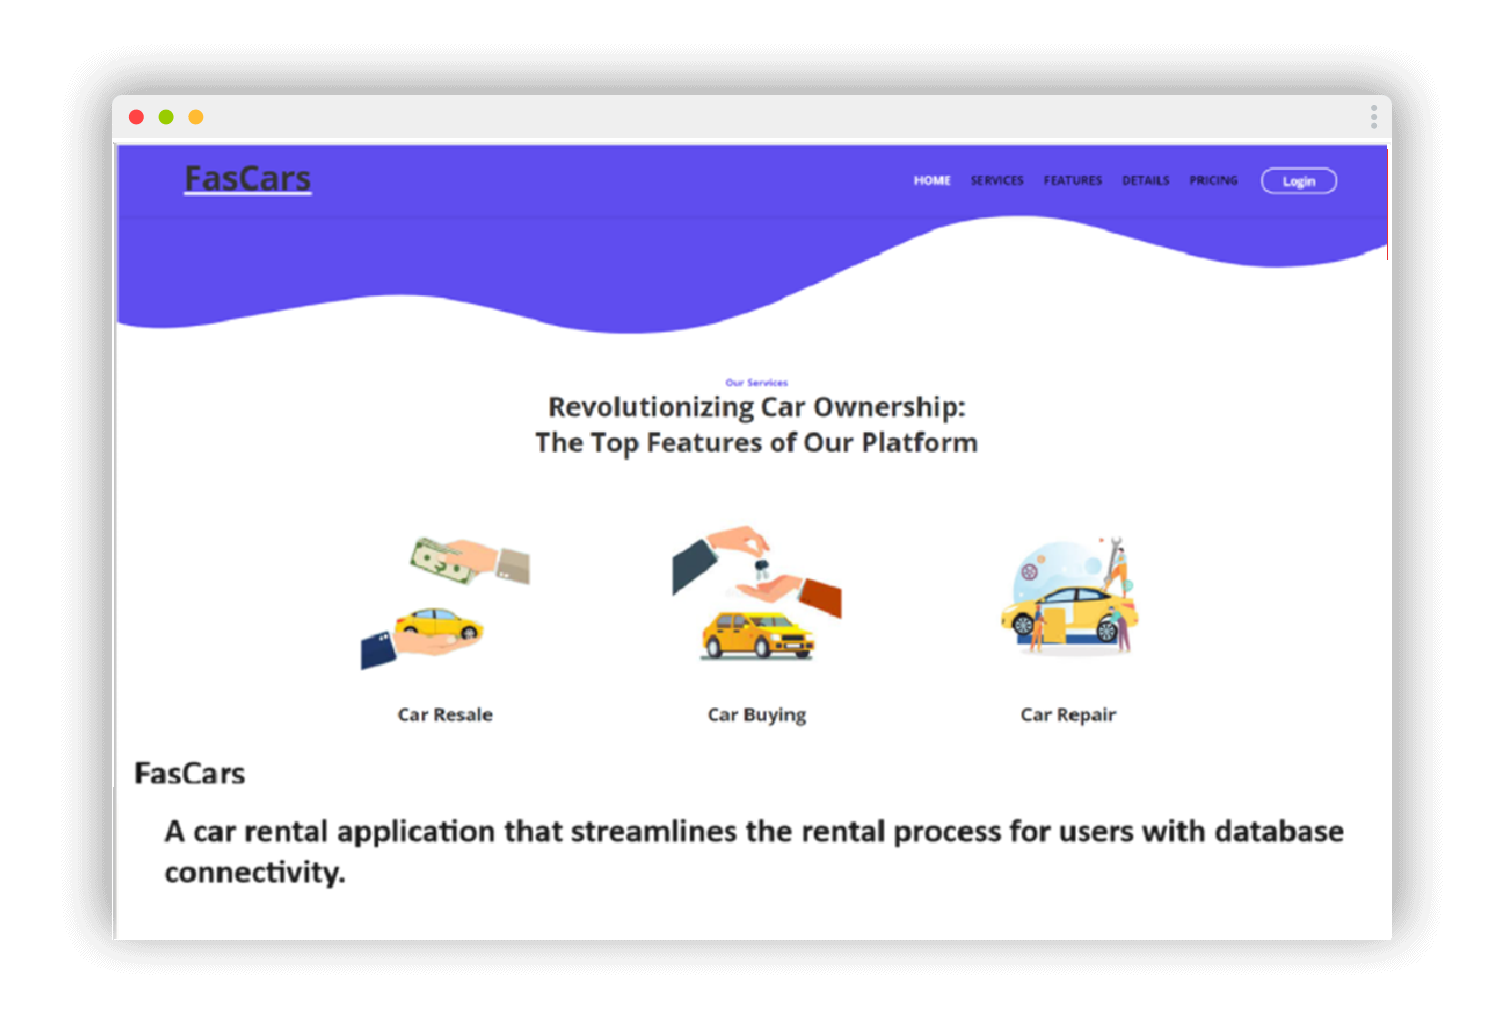
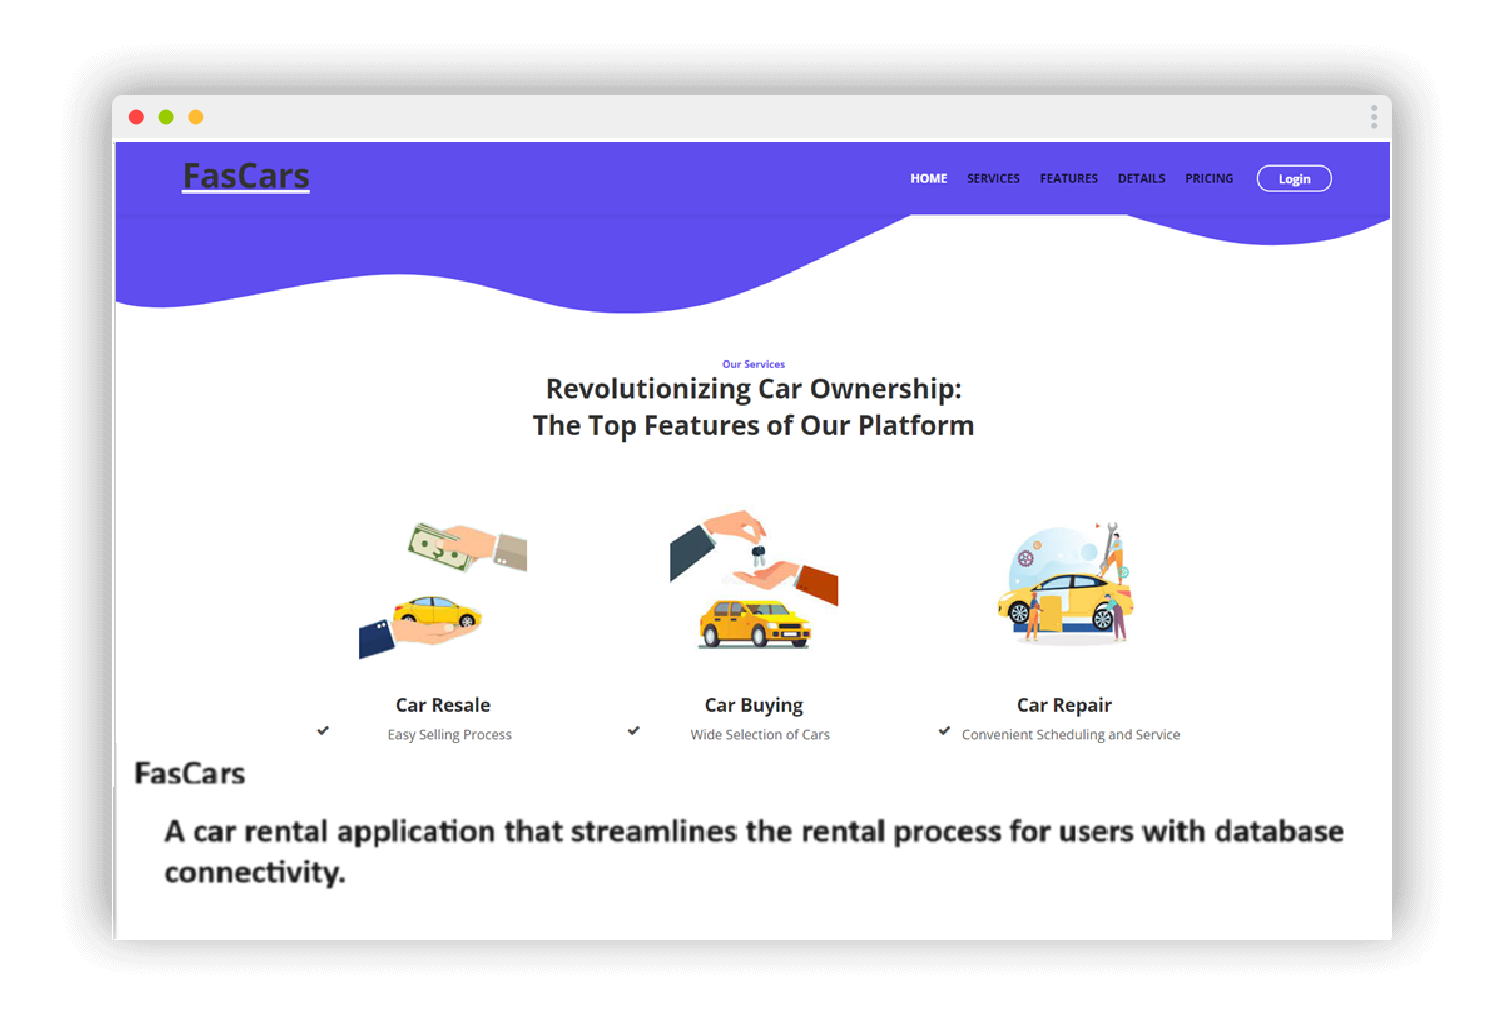
Added new Section
Achievements and skills column

diff --git a/index.html b/index.html
@@ -13,7 +13,7 @@
     <link rel="stylesheet" href="css/unicons.css">
     <link rel="stylesheet" href="css/owl.carousel.min.css">
     <link rel="stylesheet" href="css/owl.theme.default.min.css">
-
+    <link rel="stylesheet" href="css/animations.css">
     <!-- MAIN STYLE -->
     <link rel="stylesheet" href="css/tooplate-style.css">
     
@@ -50,6 +50,9 @@ https://www.tooplate.com/view/2115-marvel
                     <li class="nav-item">
                         <a href="#resume" class="nav-link"><span data-hover="Resume">Resume</span></a>
                     </li>
+                    <li class="nav-item">
+                      <a href="#achievements" class="nav-link"><span data-hover="Milestones & Mastery">Milestones & Mastery</span></a>
+                  </li>
                     <li class="nav-item">
                         <a href="#contact" class="nav-link"><span data-hover="Contact">Contact</span></a>
                     </li>
@@ -243,6 +246,50 @@ https://www.tooplate.com/view/2115-marvel
             </div>
         </div>
     </section>
+  <!-- ACHIEVEMENTS AND SKILLS -->
+  <section class="achievements-skills py-5" id="achievements">
+    <div class="container">
+      <div class="row">
+        <div class="col-lg-12 text-center">
+          <h2>Achievements & Skills</h2>
+          <p>Explore my certifications and skills acquired over the years</p>
+          <div class="category-toggle">
+            <div class="toggle-button" id="achievements-toggle">Achievements</div>
+            <div class="toggle-button" id="skills-toggle">Skills</div>
+          </div>
+          <div class="card-wrapper" id="card-container">
+            <!-- Achievements Cards -->
+            <div class="card" data-category="achievements">
+              <div class="card-content">
+                <div class="card-front">
+                  <h3>First Place - IQuest Hackathon</h3>
+                  <p>Click to see details</p>
+                </div>
+                <div class="card-back">
+                  <h4>Project Name</h4>
+                  <p>Details about the project and achievement.</p>
+                </div>
+              </div>
+            </div>
+            <!-- Skills Cards -->
+            <div class="card" data-category="skills" style="display: none;">
+              <div class="card-content">
+                <div class="card-front">
+                  <h3>Excel Certification</h3>
+                  <p>Click to see details</p>
+                </div>
+                <div class="card-back">
+                  <h4>Udemy</h4>
+                  <p>Details about the certification and skills acquired.</p>
+                </div>
+              </div>
+            </div>
+            <!-- Add more cards as needed -->
+          </div>
+        </div>
+      </div>
+    </div>
+  </section>
 
     <!-- CONTACT -->
     <section class="contact py-5" id="contact">

diff --git a/css/animations.css b/css/animations.css
@@ -1,0 +1,79 @@
+.category-toggle {
+    display: flex;
+    justify-content: center;
+    margin-bottom: 20px;
+  }
+  
+  .toggle-button {
+    background-color: #f9f9f9;
+    border: 1px solid #ddd;
+    border-radius: 5px;
+    padding: 10px 20px;
+    margin: 0 10px;
+    cursor: pointer;
+    transition: background-color 0.3s;
+  }
+  
+  .toggle-button:hover {
+    background-color: #e0e0e0;
+  }
+  
+  .card-wrapper {
+    display: flex;
+    flex-wrap: wrap;
+    justify-content: center;
+    gap: 20px;
+  }
+  
+  .card {
+    width: 300px;
+    height: 200px;
+    perspective: 1000px;
+    cursor: pointer;
+    margin: 20px;
+  }
+  
+  .card-content {
+    width: 100%;
+    height: 100%;
+    position: relative;
+    transform-style: preserve-3d;
+    transition: transform 0.6s;
+  }
+  
+  .card-content:hover {
+    transform: rotateY(180deg);
+  }
+  
+  .card-front, .card-back {
+    position: absolute;
+    width: 100%;
+    height: 100%;
+    backface-visibility: hidden;
+    display: flex;
+    align-items: center;
+    justify-content: center;
+    text-align: center;
+    border-radius: 10px;
+    box-shadow: 0 4px 8px rgba(0, 0, 0, 0.2);
+    padding: 20px;
+  }
+  
+  .card-front {
+    background-color: #f9f9f9;
+    color: #333;
+  }
+  
+  .card-back {
+    background-color: #333;
+    color: #fff;
+    transform: rotateY(180deg);
+  }
+  
+  .card h3, .card h4 {
+    margin: 0;
+  }
+  
+  .card p {
+    margin: 0;
+  }

diff --git a/st.css b/st.css
@@ -1,0 +1,44 @@
+body {
+    font-family: Arial, sans-serif;
+    display: flex;
+    justify-content: center;
+    align-items: center;
+    height: 100vh;
+    margin: 0;
+}
+
+.toggler-container {
+    display: flex;
+    align-items: center;
+}
+
+.toggler {
+    display: flex;
+    align-items: center;
+    cursor: pointer;
+    transition: transform 0.3s ease;
+    position: relative;
+}
+
+.needle {
+    width: 0;
+    height: 0;
+    border-left: 10px solid transparent;
+    border-right: 10px solid transparent;
+    border-bottom: 20px solid #000;
+    transform-origin: bottom center;
+    transition: transform 0.3s ease;
+}
+
+.toggler.active .needle {
+    transform: rotate(180deg);
+}
+
+.content {
+    margin-left: 10px;
+    display: none;
+}
+
+.content.show {
+    display: block;
+}

diff --git a/index2.html b/index2.html
@@ -1,0 +1,21 @@
+<!DOCTYPE html>
+<html lang="en">
+<head>
+    <meta charset="UTF-8">
+    <meta name="viewport" content="width=device-width, initial-scale=1.0">
+    <title>Needle Toggler</title>
+    <link rel="stylesheet" href="styles.css">
+</head>
+<body>
+    <div class="toggler-container">
+        <div class="toggler" onclick="toggleRotation()">
+            <div class="needle"></div>
+        </div>
+        <div class="content">
+            <!-- Content to show/hide goes here -->
+            <p>This is some content that can be shown or hidden.</p>
+        </div>
+    </div>
+    <script src="script.js"></script>
+</body>
+</html>

diff --git a/js/custom.js b/js/custom.js
@@ -34,3 +34,21 @@
     $('.social-links a').tooltip();
 
 })(jQuery);
+document.getElementById('achievements-toggle').addEventListener('click', function() {
+  toggleCategory('achievements');
+});
+
+document.getElementById('skills-toggle').addEventListener('click', function() {
+  toggleCategory('skills');
+});
+
+function toggleCategory(category) {
+  const cards = document.querySelectorAll('.card');
+  cards.forEach(card => {
+    if (card.getAttribute('data-category') === category) {
+      card.style.display = 'block';
+    } else {
+      card.style.display = 'none';
+    }
+  });
+}

diff --git a/sc.js b/sc.js
@@ -1,0 +1,7 @@
+function toggleRotation() {
+    const toggler = document.querySelector('.toggler');
+    const content = document.querySelector('.content');
+
+    toggler.classList.toggle('active');
+    content.classList.toggle('show');
+}
